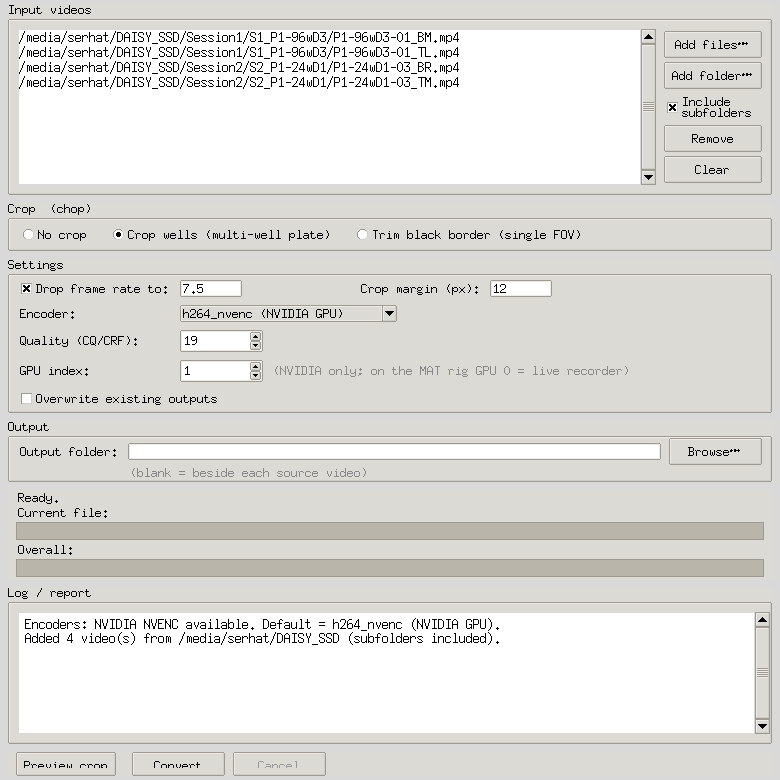
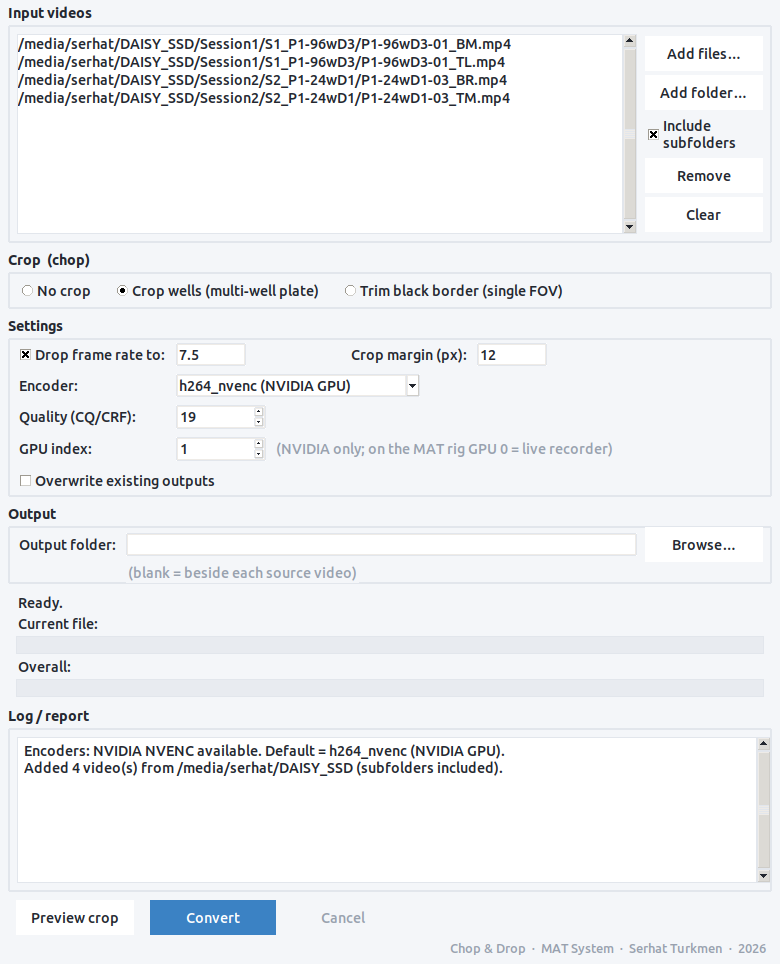
Taller default window; refresh screenshot (modern font + light theme)

diff --git a/chop_and_drop.py b/chop_and_drop.py
@@ -234,8 +234,8 @@ class App(tk.Tk):
     def __init__(self):
         super().__init__()
         self.title("🪓 Chop & Drop — chop the wells, drop the frames")
-        self.geometry("780x880")
-        self.minsize(720, 800)
+        self.geometry("780x910")
+        self.minsize(720, 840)
 
         self.files = []
         self.worker = None